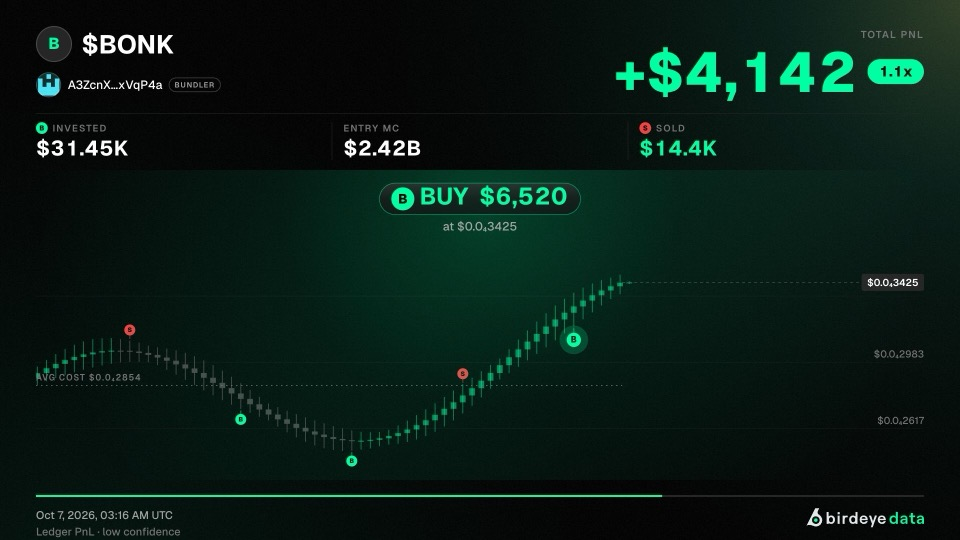
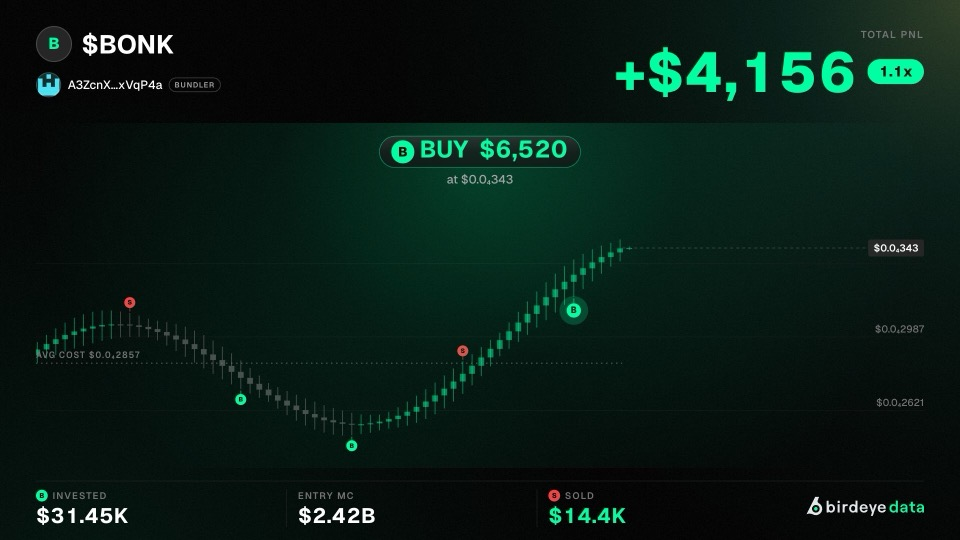
feat: calmer replay layout
Invested, Entry MC and Sold along the bottom with the logo; no progress
bar, timestamp or basis line.

diff --git a/src/lib/video-frame.ts b/src/lib/video-frame.ts
@@ -1,7 +1,7 @@
 import type { BirdeyeCandle } from "@/server/birdeye/types";
 import type { LedgerEvent } from "@/server/pnl/ledger";
 import type { BoardRow } from "@/server/services/analyze-token";
-import { TIMEFRAME_SECONDS, type ReplayTimeframe } from "./replay-timeframe";
+import type { ReplayTimeframe } from "./replay-timeframe";
 import type { EventBins } from "./replay-window";
 import {
   activeLabels,
@@ -63,7 +63,10 @@ interface Layout {
   pad: number;
   header: Rect;
   chart: Rect;
-  footer: Rect;
+  /** Bottom band: Invested, Entry MC and Sold, with the brand logo. */
+  stats: Rect;
+  /** Wide formats put the logo at the band's right end; portrait sets it under the band. */
+  logoInBand: boolean;
   /** Portrait stacks identity, PnL and stats; wide formats split them left and right. */
   stackedHeader: boolean;
   labelAt: "top" | "bottom";
@@ -84,9 +87,10 @@ function layoutFor(shape: VideoShape): Layout {
   if (shape === "portrait") {
     return {
       pad: 72,
-      header: { x: 72, y: 72, w: 936, h: 430 },
-      chart: { x: 72, y: 540, w: 936, h: 1126 },
-      footer: { x: 72, y: 1716, w: 936, h: 130 },
+      header: { x: 72, y: 72, w: 936, h: 310 },
+      chart: { x: 72, y: 420, w: 936, h: 1160 },
+      stats: { x: 72, y: 1616, w: 936, h: 130 },
+      logoInBand: false,
       stackedHeader: true,
       labelAt: "bottom",
       visibleBars: 46,
@@ -104,9 +108,10 @@ function layoutFor(shape: VideoShape): Layout {
   if (shape === "square") {
     return {
       pad: 60,
-      header: { x: 60, y: 48, w: 960, h: 214 },
-      chart: { x: 60, y: 286, w: 960, h: 630 },
-      footer: { x: 60, y: 940, w: 960, h: 100 },
+      header: { x: 60, y: 48, w: 960, h: 140 },
+      chart: { x: 60, y: 196, w: 960, h: 690 },
+      stats: { x: 60, y: 912, w: 960, h: 120 },
+      logoInBand: true,
       stackedHeader: false,
       labelAt: "top",
       visibleBars: 64,
@@ -123,9 +128,10 @@ function layoutFor(shape: VideoShape): Layout {
   }
   return {
     pad: 72,
-    header: { x: 72, y: 52, w: 1776, h: 260 },
-    chart: { x: 72, y: 340, w: 1776, h: 620 },
-    footer: { x: 72, y: 990, w: 1776, h: 70 },
+    header: { x: 72, y: 52, w: 1776, h: 170 },
+    chart: { x: 72, y: 246, w: 1776, h: 690 },
+    stats: { x: 72, y: 962, w: 1776, h: 100 },
+    logoInBand: true,
     stackedHeader: false,
     labelAt: "top",
     visibleBars: 96,
@@ -628,7 +634,6 @@ export function drawVideoFrame(ctx: CanvasRenderingContext2D, t: number, scene: 
   const symbolX = H.x + S.token * 1.26;
   const symbolY = H.y + S.token / 2 + S.symbol * 0.36;
   drawTokenAvatar(ctx, scene.tokenLogo, scene.symbol, H.x, H.y, S.token);
-  let statsY: number;
   if (L.stackedHeader) {
     const walletW = walletBlock(ctx, scene.wallet, role, H.x + H.w, H.y + S.token / 2, S.wallet, "right", true);
     fitText(ctx, symbolText, symbolX, symbolY, H.x + H.w - walletW - S.wallet - symbolX, 700, S.symbol, C.text);
@@ -636,7 +641,6 @@ export function drawVideoFrame(ctx: CanvasRenderingContext2D, t: number, scene: 
     caption(ctx, "TOTAL PNL", H.x, captionY, S.caption);
     const baseline = captionY + S.pnl * 0.98;
     pnlGroup(ctx, pnlText, multipleText, H.x, baseline, H.w, S.pnl, S.pill, metrics.totalUsd, "left");
-    statsY = baseline + S.pnl * 0.3;
   } else {
     const symbolW = fitText(ctx, symbolText, symbolX, symbolY, H.w * 0.4, 700, S.symbol, C.text);
     const walletCy = H.y + S.token + S.wallet * 1.9;
@@ -646,42 +650,7 @@ export function drawVideoFrame(ctx: CanvasRenderingContext2D, t: number, scene: 
     caption(ctx, "TOTAL PNL", H.x + H.w, captionY, S.caption, C.text3, "right");
     const baseline = captionY + S.pnl * 0.96;
     pnlGroup(ctx, pnlText, multipleText, H.x + H.w, baseline, H.w - leftW - S.pnl * 0.4, S.pnl, S.pill, metrics.totalUsd, "right");
-    statsY = Math.max(walletCy + S.wallet * 1.2, baseline) + S.statCaption * 1.5;
   }
-
-  const cells = [
-    { label: "INVESTED", side: "buy" as const, text: unitText(totals.bought), color: C.text },
-    { label: entry.label, text: entry.text, color: C.text },
-    { label: "SOLD", side: "sell" as const, text: unitText(totals.sold), color: totals.sold > 0 ? C.brand : C.text },
-  ];
-  const cellW = H.w / cells.length;
-  const captionBase = statsY + S.statCaption * 1.9;
-  const valueBase = captionBase + S.statValue * 1.15;
-  ctx.strokeStyle = C.line;
-  ctx.lineWidth = 1;
-  ctx.beginPath();
-  ctx.moveTo(H.x, statsY);
-  ctx.lineTo(H.x + H.w, statsY);
-  for (let column = 1; column < cells.length; column += 1) {
-    ctx.moveTo(H.x + column * cellW, statsY + S.statCaption * 0.9);
-    ctx.lineTo(H.x + column * cellW, valueBase + S.statValue * 0.2);
-  }
-  ctx.stroke();
-  cells.forEach((cell, index) => {
-    const x = H.x + index * cellW + (index === 0 ? 0 : S.statCaption * 1.2);
-    let captionX = x;
-    if (cell.side) {
-      const radius = S.statCaption * 0.62;
-      sideBadge(ctx, x + radius, captionBase - S.statCaption * 0.36, radius, cell.side);
-      captionX += radius * 2 + S.statCaption * 0.5;
-    }
-    caption(ctx, cell.label, captionX, captionBase, S.statCaption);
-    ctx.font = font(700, S.statValue);
-    const fit = Math.min(1, (cellW - S.statCaption * 2.4) / Math.max(numberWidth(ctx, cell.text), 1));
-    ctx.font = font(700, S.statValue * fit);
-    ctx.fillStyle = cell.color;
-    drawNumber(ctx, cell.text, x, valueBase);
-  });
 
   // ── Chart ─────────────────────────────────────────────────────────────
   const R = L.chart;
@@ -890,22 +859,50 @@ export function drawVideoFrame(ctx: CanvasRenderingContext2D, t: number, scene: 
     ctx.restore();
   }
 
-  // ── Footer: progress, moment, basis, logo ────────────────────────────
-  const F = L.footer;
-  ctx.fillStyle = C.raised;
-  ctx.fillRect(F.x, F.y, F.w, 4);
-  ctx.fillStyle = C.brand;
-  ctx.fillRect(F.x, F.y, F.w * reveal, 4);
-  const timeOptions: Intl.DateTimeFormatOptions = TIMEFRAME_SECONDS[scene.timeframe] < 86_400
-    ? { month: "short", day: "numeric", year: "numeric", hour: "2-digit", minute: "2-digit", timeZone: "UTC" }
-    : { month: "short", day: "numeric", year: "numeric", timeZone: "UTC" };
-  const moment = new Date((reveal >= 1 ? candles.at(-1)! : settledCandle).unixTime * 1_000).toLocaleString("en-US", timeOptions);
-  ctx.font = font(500, S.footer);
-  ctx.fillStyle = C.text2;
-  ctx.fillText(`${moment} UTC`, F.x, F.y + S.footer * 2.2);
-  ctx.fillStyle = C.text3;
-  ctx.fillText(scene.basis, F.x, F.y + S.footer * 3.7);
-  drawLogo(ctx, scene.logo, F.x + F.w, F.y + S.footer * 1.2, S.logo, "right");
+  // ── Bottom band: Invested, Entry MC, Sold, and the logo ──────────────
+  const B = L.stats;
+  const logoW = scene.logo && "width" in scene.logo && Number(scene.logo.width) > 0
+    ? (S.logo * Number(scene.logo.width)) / Number(scene.logo.height || 1)
+    : S.logo * 6;
+  const cellsW = L.logoInBand ? B.w - logoW - S.statCaption * 2 : B.w;
+  const cells = [
+    { label: "INVESTED", side: "buy" as const, text: unitText(totals.bought), color: C.text },
+    { label: entry.label, text: entry.text, color: C.text },
+    { label: "SOLD", side: "sell" as const, text: unitText(totals.sold), color: totals.sold > 0 ? C.brand : C.text },
+  ];
+  const cellW = cellsW / cells.length;
+  const captionBase = B.y + S.statCaption * 1.9;
+  const valueBase = captionBase + S.statValue * 1.15;
+  ctx.strokeStyle = C.line;
+  ctx.lineWidth = 1;
+  ctx.beginPath();
+  ctx.moveTo(B.x, B.y);
+  ctx.lineTo(B.x + B.w, B.y);
+  for (let column = 1; column < cells.length; column += 1) {
+    ctx.moveTo(B.x + column * cellW, B.y + S.statCaption * 0.9);
+    ctx.lineTo(B.x + column * cellW, valueBase + S.statValue * 0.2);
+  }
+  ctx.stroke();
+  cells.forEach((cell, index) => {
+    const x = B.x + index * cellW + (index === 0 ? 0 : S.statCaption * 1.2);
+    let captionX = x;
+    if (cell.side) {
+      const radius = S.statCaption * 0.62;
+      sideBadge(ctx, x + radius, captionBase - S.statCaption * 0.36, radius, cell.side);
+      captionX += radius * 2 + S.statCaption * 0.5;
+    }
+    caption(ctx, cell.label, captionX, captionBase, S.statCaption);
+    ctx.font = font(700, S.statValue);
+    const fit = Math.min(1, (cellW - S.statCaption * 2.4) / Math.max(numberWidth(ctx, cell.text), 1));
+    ctx.font = font(700, S.statValue * fit);
+    ctx.fillStyle = cell.color;
+    drawNumber(ctx, cell.text, x, valueBase);
+  });
+  if (L.logoInBand) {
+    drawLogo(ctx, scene.logo, B.x + B.w, (captionBase - S.statCaption + valueBase) / 2 - S.logo / 2, S.logo, "right");
+  } else {
+    drawLogo(ctx, scene.logo, B.x + B.w, valueBase + S.statValue * 0.75, S.logo, "right");
+  }
 
   if (t >= timeline.replaySeconds) drawOutro(ctx, t, scene, L, { totals, totalsUsd, unitText, entry, role });
 }

diff --git a/README.md b/README.md
@@ -152,9 +152,10 @@ every endpoint called, and each replay prints its own requests and CU.
 - **Price or market cap.** The Chart tab switches the axis. Market cap is
   price × circulating supply from Token Market Data, so candles keep their
   shape and the labels, price tag, average-cost line and popups read in MC.
-- **Trader header.** The token's logo and ticker, the wallet's avatar and its
-  Birdeye label ("trader" when it has none), live PnL with its multiple pill
-  (`17x`), then Invested, Entry MC and Sold. The definitions are in
+- **Trader layout.** The token's logo and ticker, the wallet's avatar and its
+  Birdeye label ("trader" when it has none) and live PnL with its multiple
+  pill (`17x`) on top; Invested, Entry MC and Sold along the bottom with the
+  logo; the chart gets everything in between. The definitions are in
   [PNL_METHODOLOGY.md](./docs/PNL_METHODOLOGY.md#card-vocabulary).
 - **Every fill plotted.** Each fill appears as a B or S badge on its candle,
   alongside an average-cost line and a live price tag. Fills inside missing
